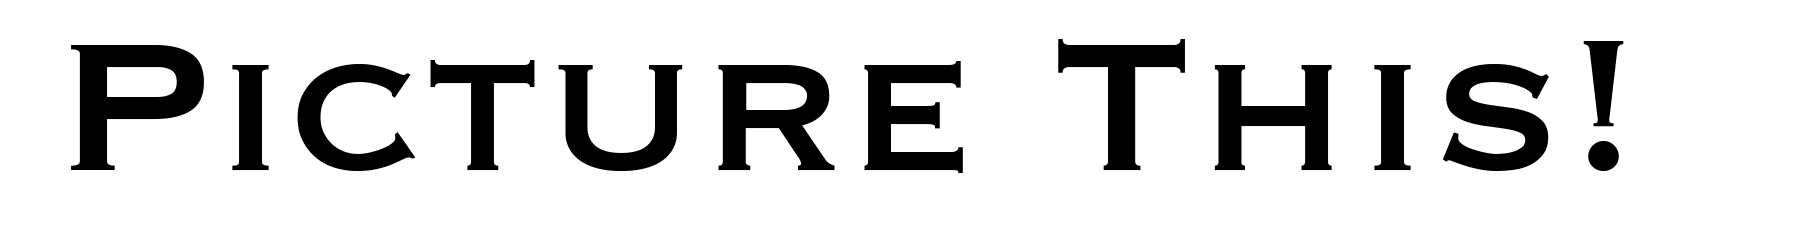
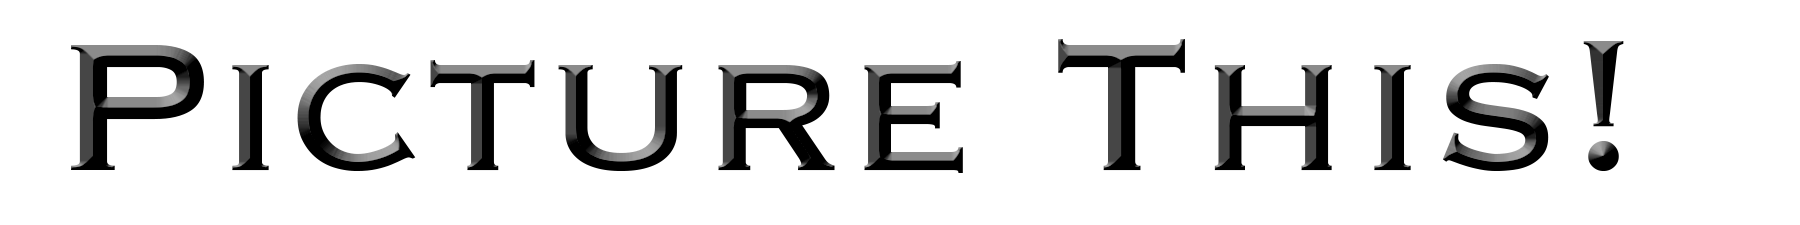
made center picture responsive

diff --git a/app/sass/main.scss b/app/sass/main.scss
@@ -39,6 +39,7 @@ a {
 	height: 150px;
 	background-color: $bodyblue;
 	border-bottom: 1px solid black;
+	text-align: center;
 
 
 
@@ -51,12 +52,13 @@ a {
 		margin-top: 5%;
 	}
 
-	// .logo2 {
-	// 	width: 500px;
-	// 	display: inline;
-	// 	margin-right: auto;
-	// 	margin-left: 0%;
-	// }
+	.logo2 {
+		width: 70%;
+		display: inline;
+		margin-right: auto;
+		margin-left: auto;
+		margin-top: 5%;
+	}
 }
 
 .loginInfo {
@@ -125,7 +127,7 @@ a {
 	text-align: center;
 	font-family: lobster;
 	font-size: 2em;
-	
+
 }
 
 .scoreDB {

diff --git a/app/css/main.css b/app/css/main.css
@@ -17,13 +17,20 @@ a {
 .header {
   height: 150px;
   background-color: #4182E9;
-  border-bottom: 1px solid black; }
+  border-bottom: 1px solid black;
+  text-align: center; }
   .header .logo {
     height: 60px;
     width: 60px;
     display: inline;
     float: left;
     margin-left: 5%;
+    margin-top: 5%; }
+  .header .logo2 {
+    width: 70%;
+    display: inline;
+    margin-right: auto;
+    margin-left: auto;
     margin-top: 5%; }
 
 .loginInfo {

diff --git a/app/index.html b/app/index.html
@@ -27,14 +27,14 @@
   </nav>
 
 
-<!--   <img src="images/PictureThis.png" class="logo2">
- -->
+  <img src="images/PictureThis.png" class="logo2">
 
-  <div class="loginInfo">
+
+<!--   <div class="loginInfo">
     <input type="text" placeholder="Username" class="username">
     <input type="text" placeholder="Password" class="password">
     <button class="loginButton">Submit</button>
-  </div>
+  </div> -->
 </div>
 
 <!-- main content -->
